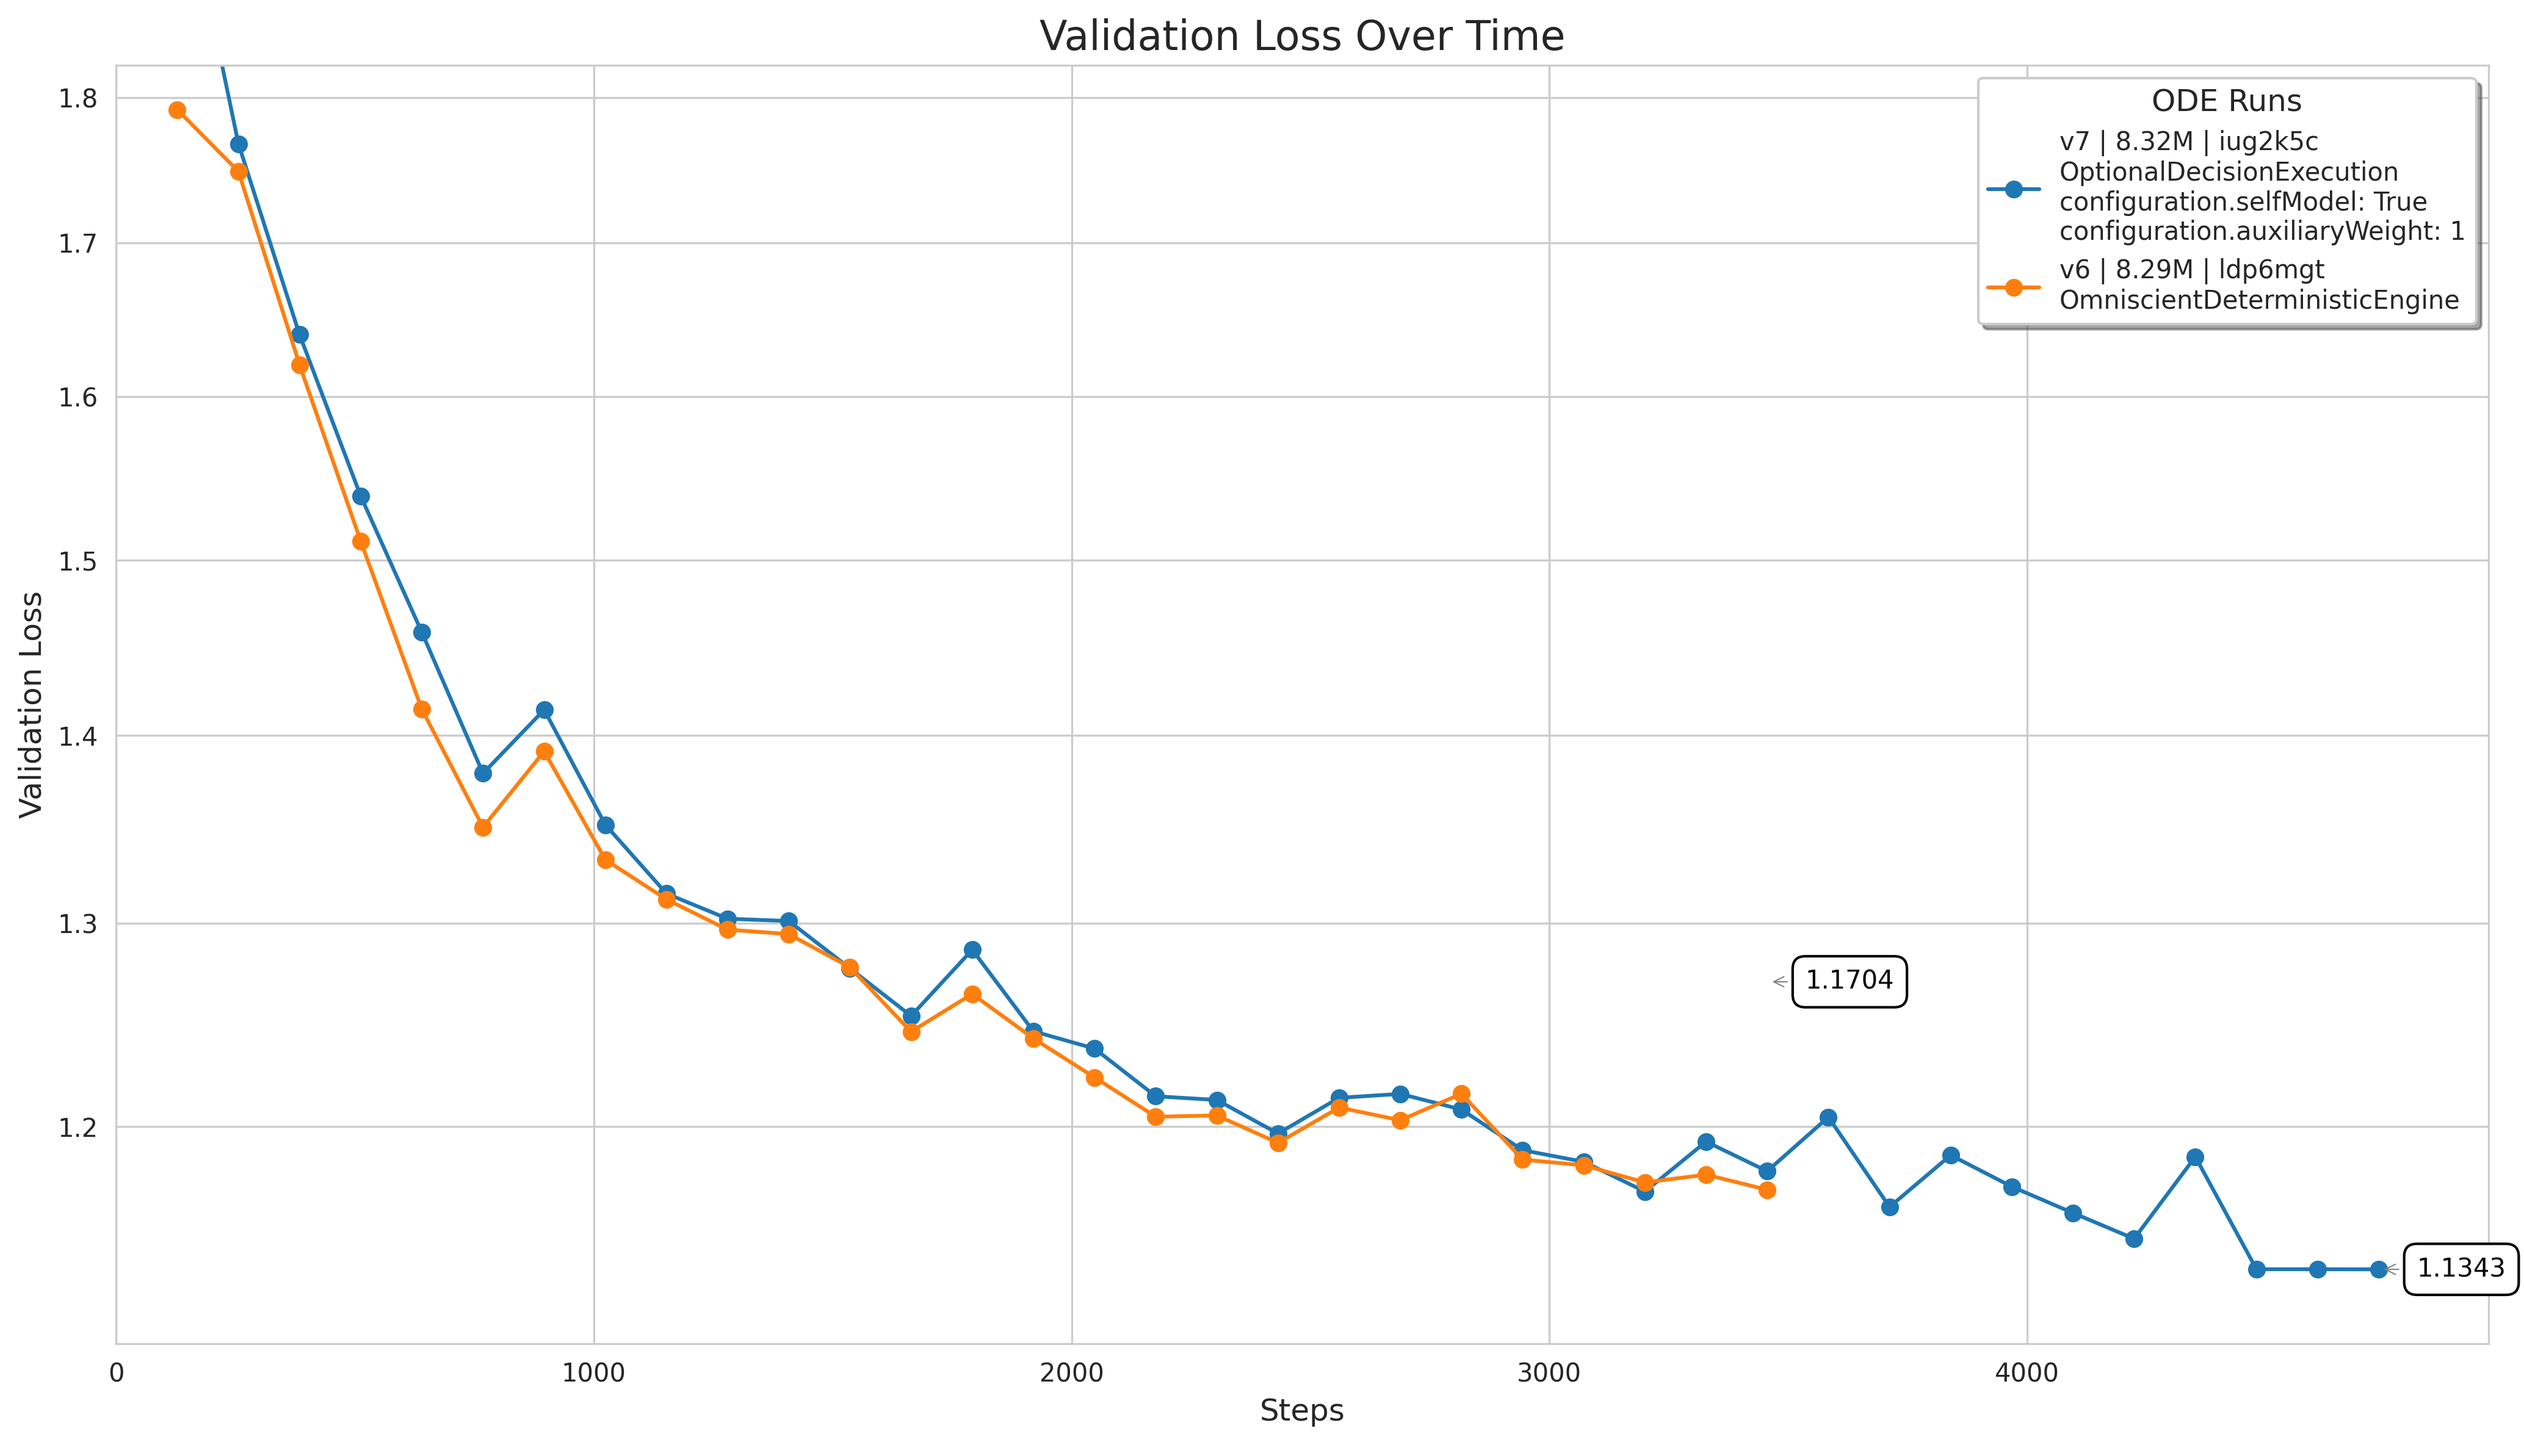
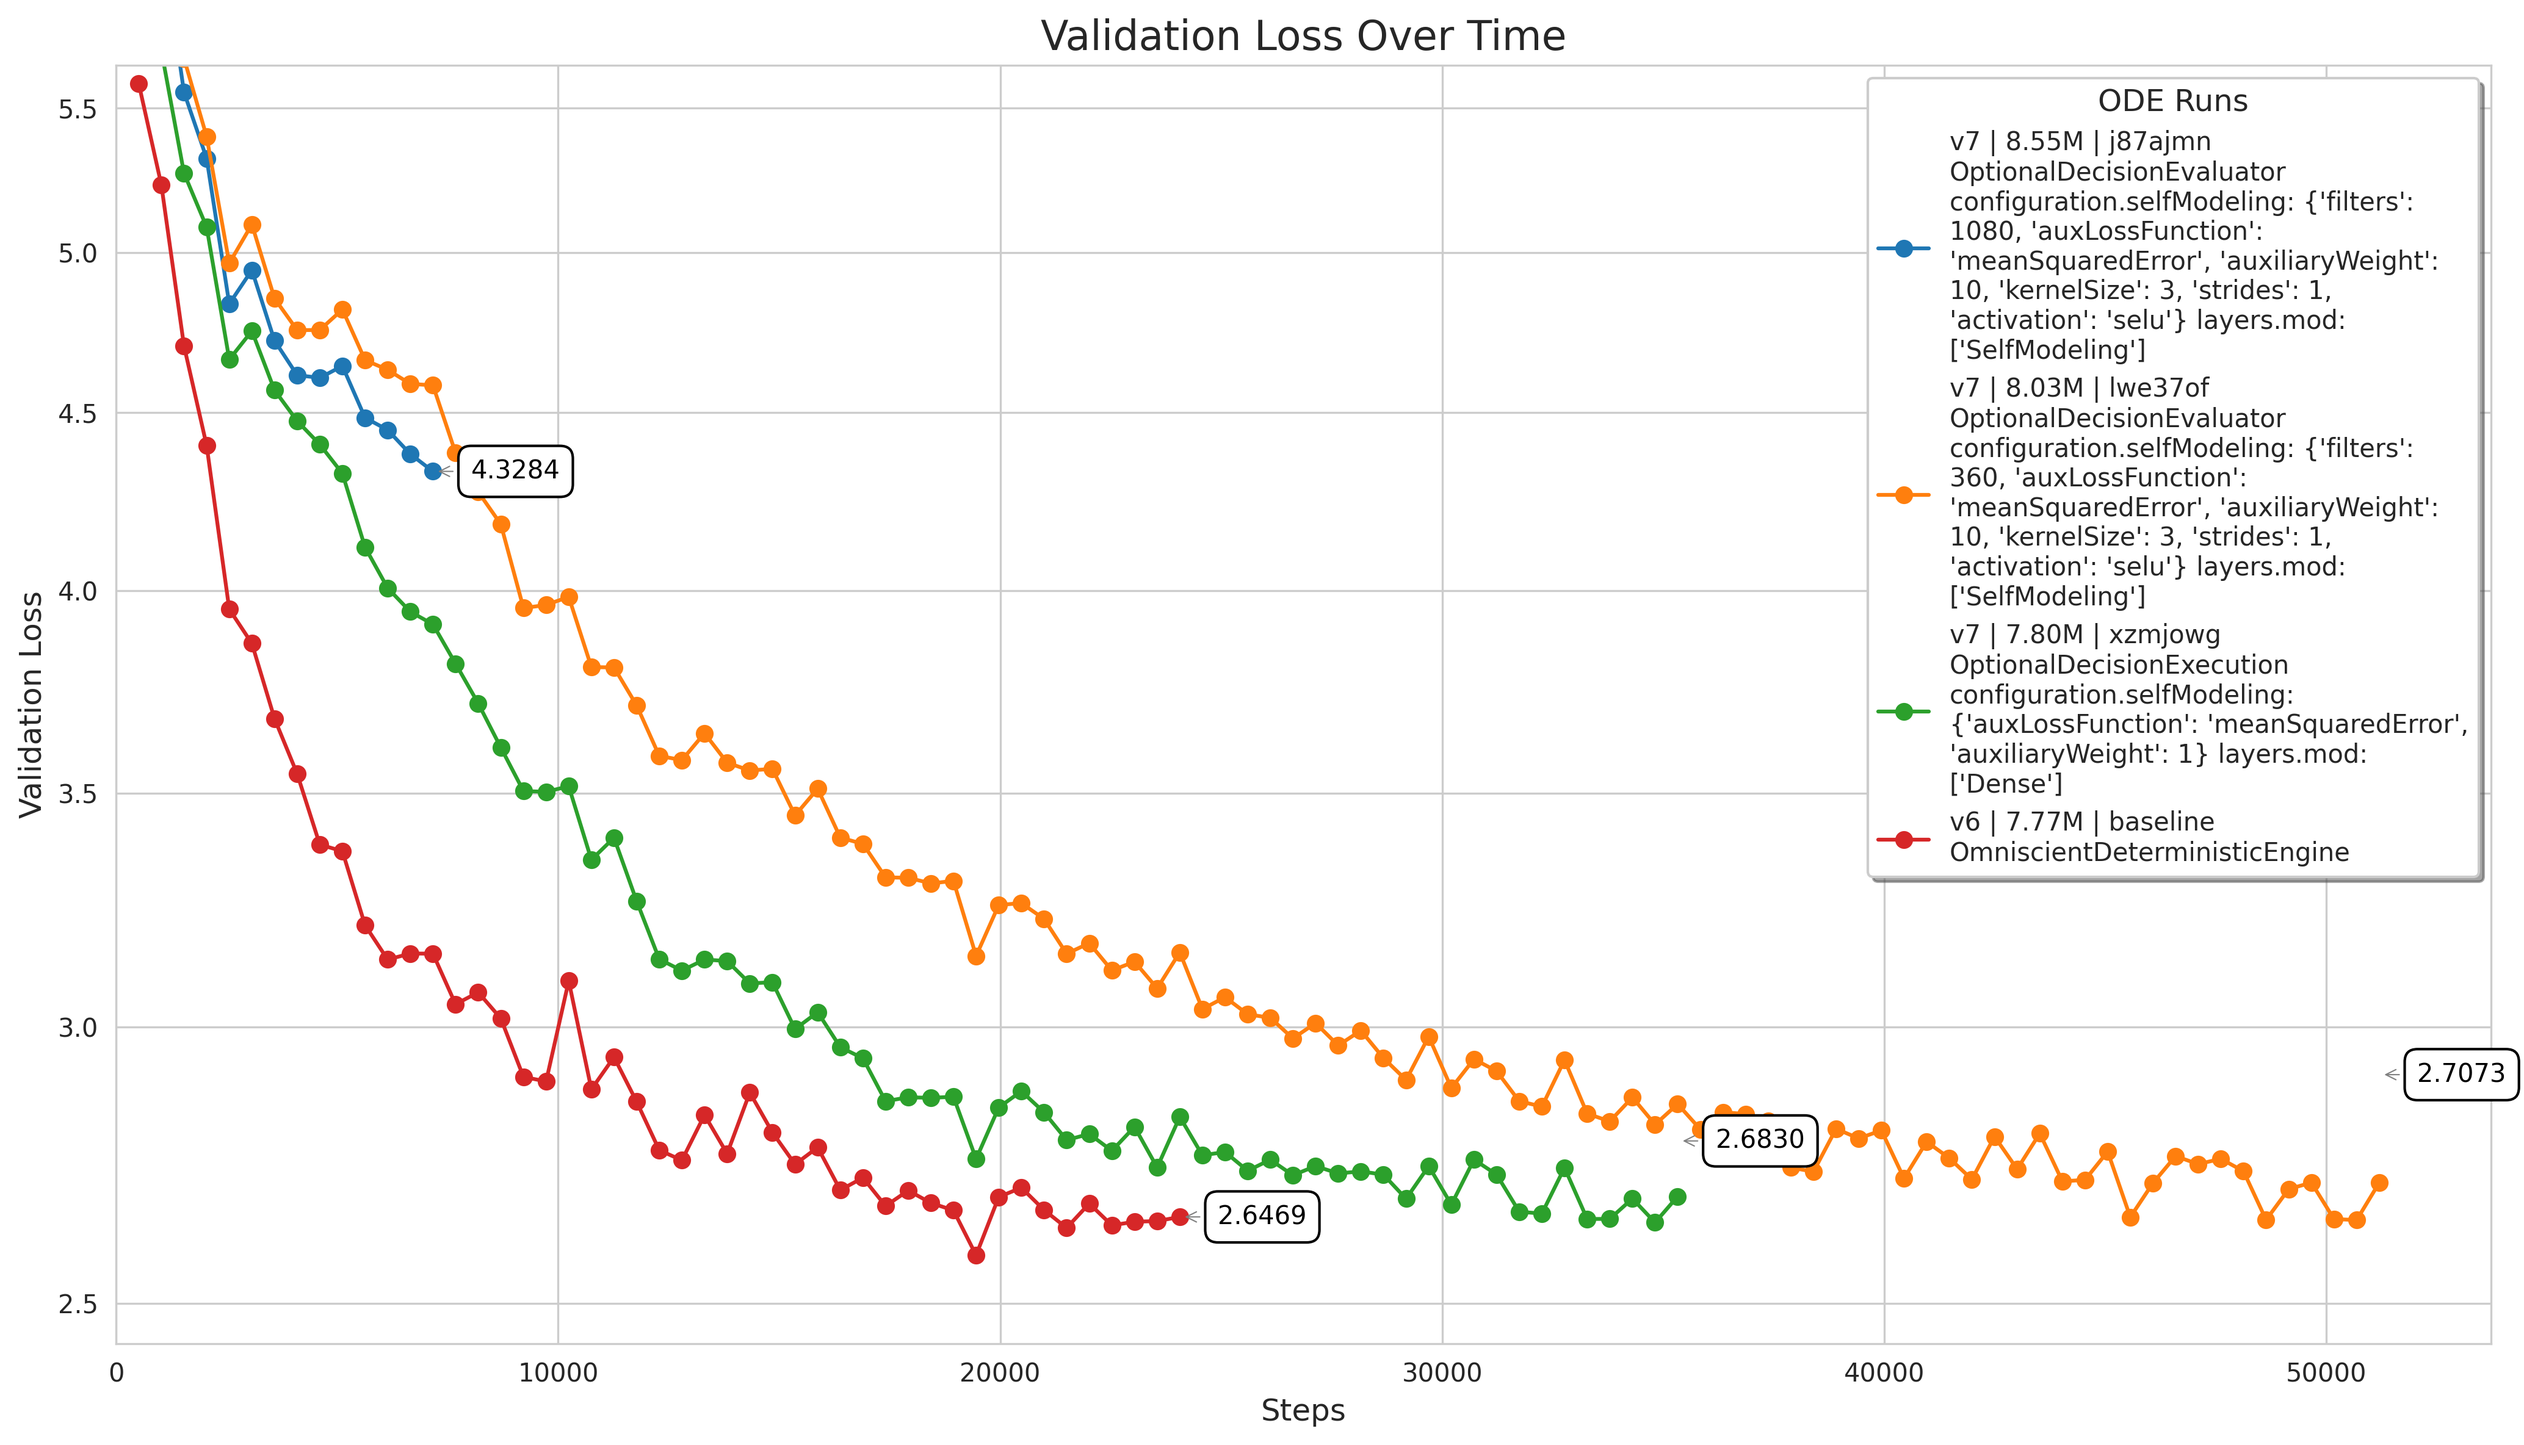
pause self-modeling for now

diff --git a/src/model.v7.js b/src/model.v7.js
@@ -10,7 +10,7 @@ export default class OptionalDecisionEvaluator extends ODE {
             learningRate: 1e-3,
             weightDecay: 0.01,
             selfModeling: {
-                filters: 360,
+                filters: 1080,
                 auxLossFunction: 'meanSquaredError',
                 auxiliaryWeight: 10.0,
                 kernelSize: 3,
